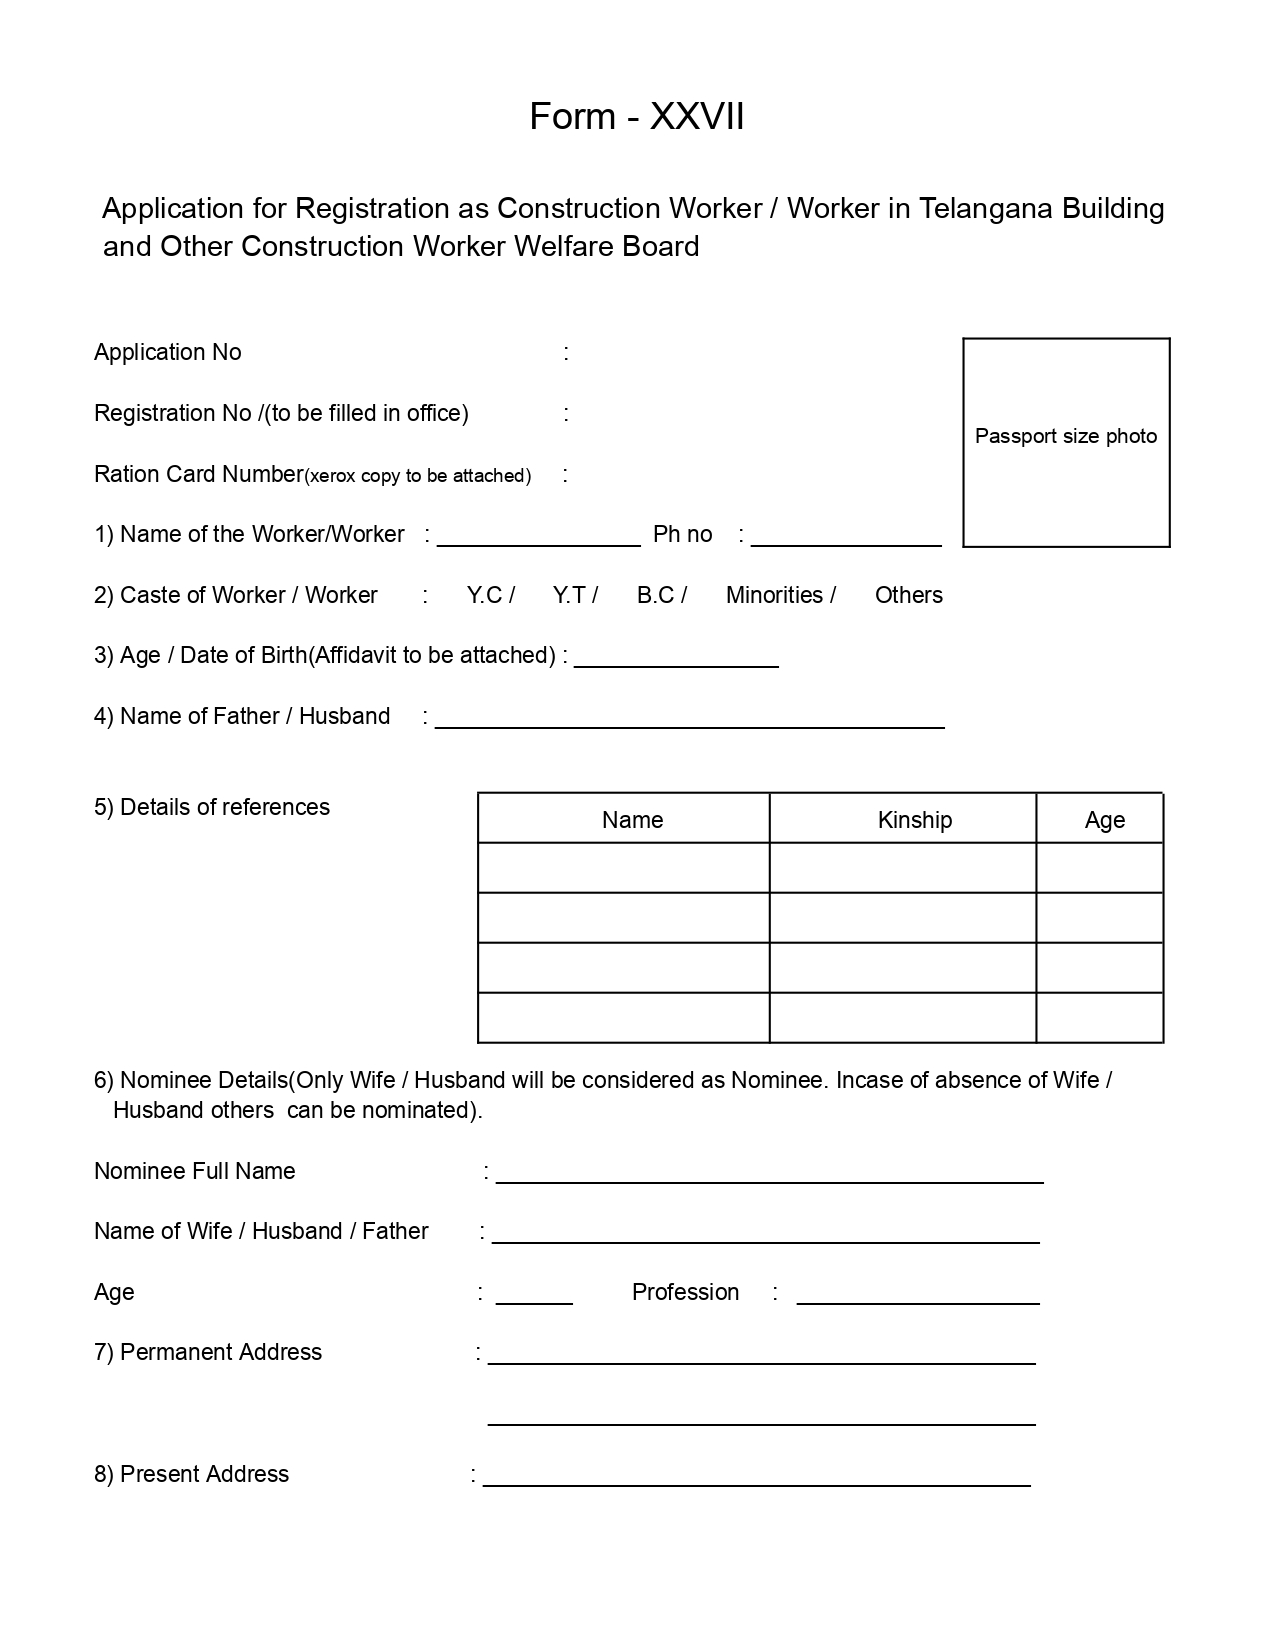
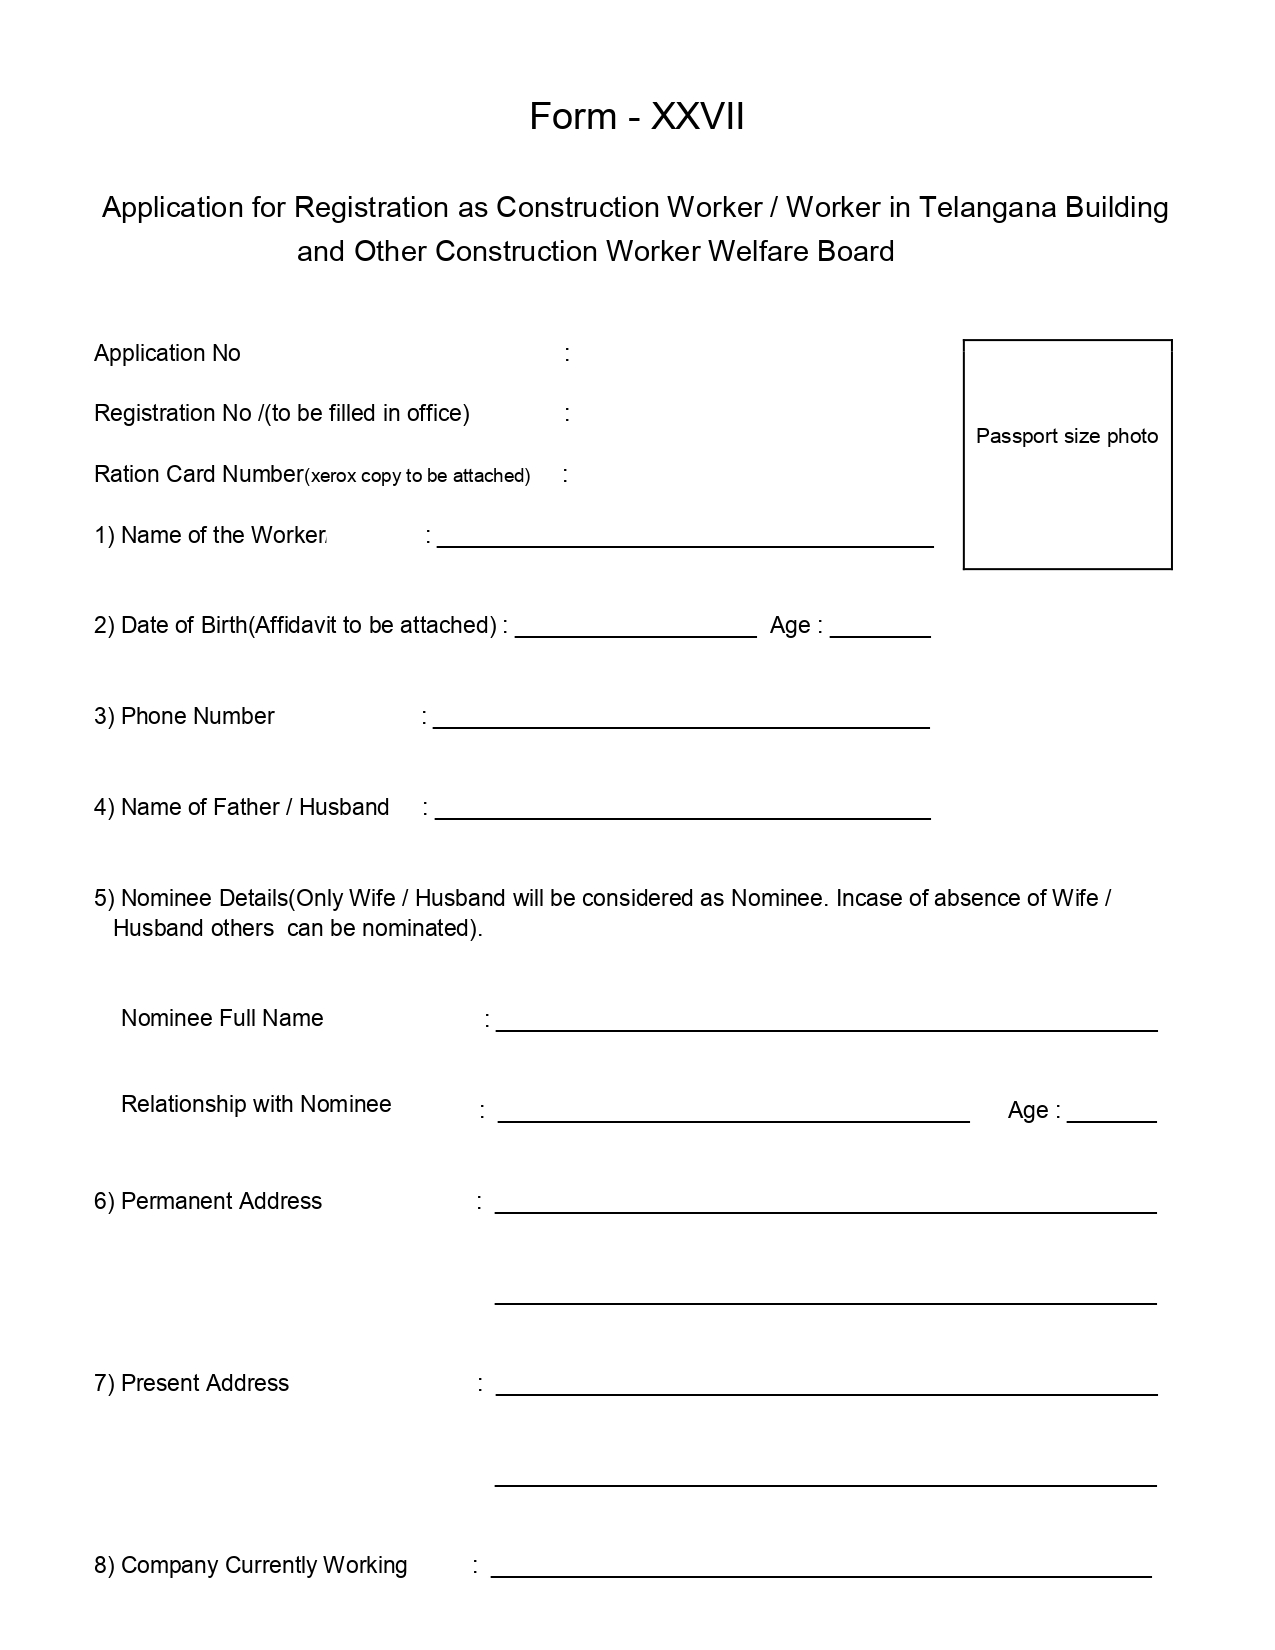
UPDATE : Workers form image changed in Homecards

diff --git a/src/views/components/Header.jsx b/src/views/components/Header.jsx
@@ -143,7 +143,7 @@ const Header = ({ currentPage }) => {
                         currentPage === "Home" ?
                             <div className='d-flex justify-content-end gap-2'>
                                 <Navbar.Collapse className="">
-                                    <div className='cup gap-2' onClick={() => setModalShow(true)}>
+                                    <div title='Info' className='cup gap-2' onClick={() => setModalShow(true)}>
                                         <BsInfoSquareFill size={34} style={{ color: '#809bce' }} />
                                     </div>
                                 </Navbar.Collapse>
@@ -160,6 +160,7 @@ const Header = ({ currentPage }) => {
                                 <div className='d-flex justify-content-end gap-2'>
                                     <Navbar.Collapse className="">
                                         <CustomButton
+                                            title="Back to home"
                                             buttonName={
                                                 isMobileScreen ?
                                                     <AiFillHome />

diff --git a/src/reusable-components/CustomButton.jsx b/src/reusable-components/CustomButton.jsx
@@ -3,12 +3,13 @@ import React from 'react'
 const CustomButton = ({
     className,
     buttonName,
-    onClick
+    onClick,
+    title,
 }) => {
 
 
     return (
-        <button className={className} onClick={onClick}>
+        <button title={title} className={className} onClick={onClick}>
             {buttonName}
         </button>
     )
